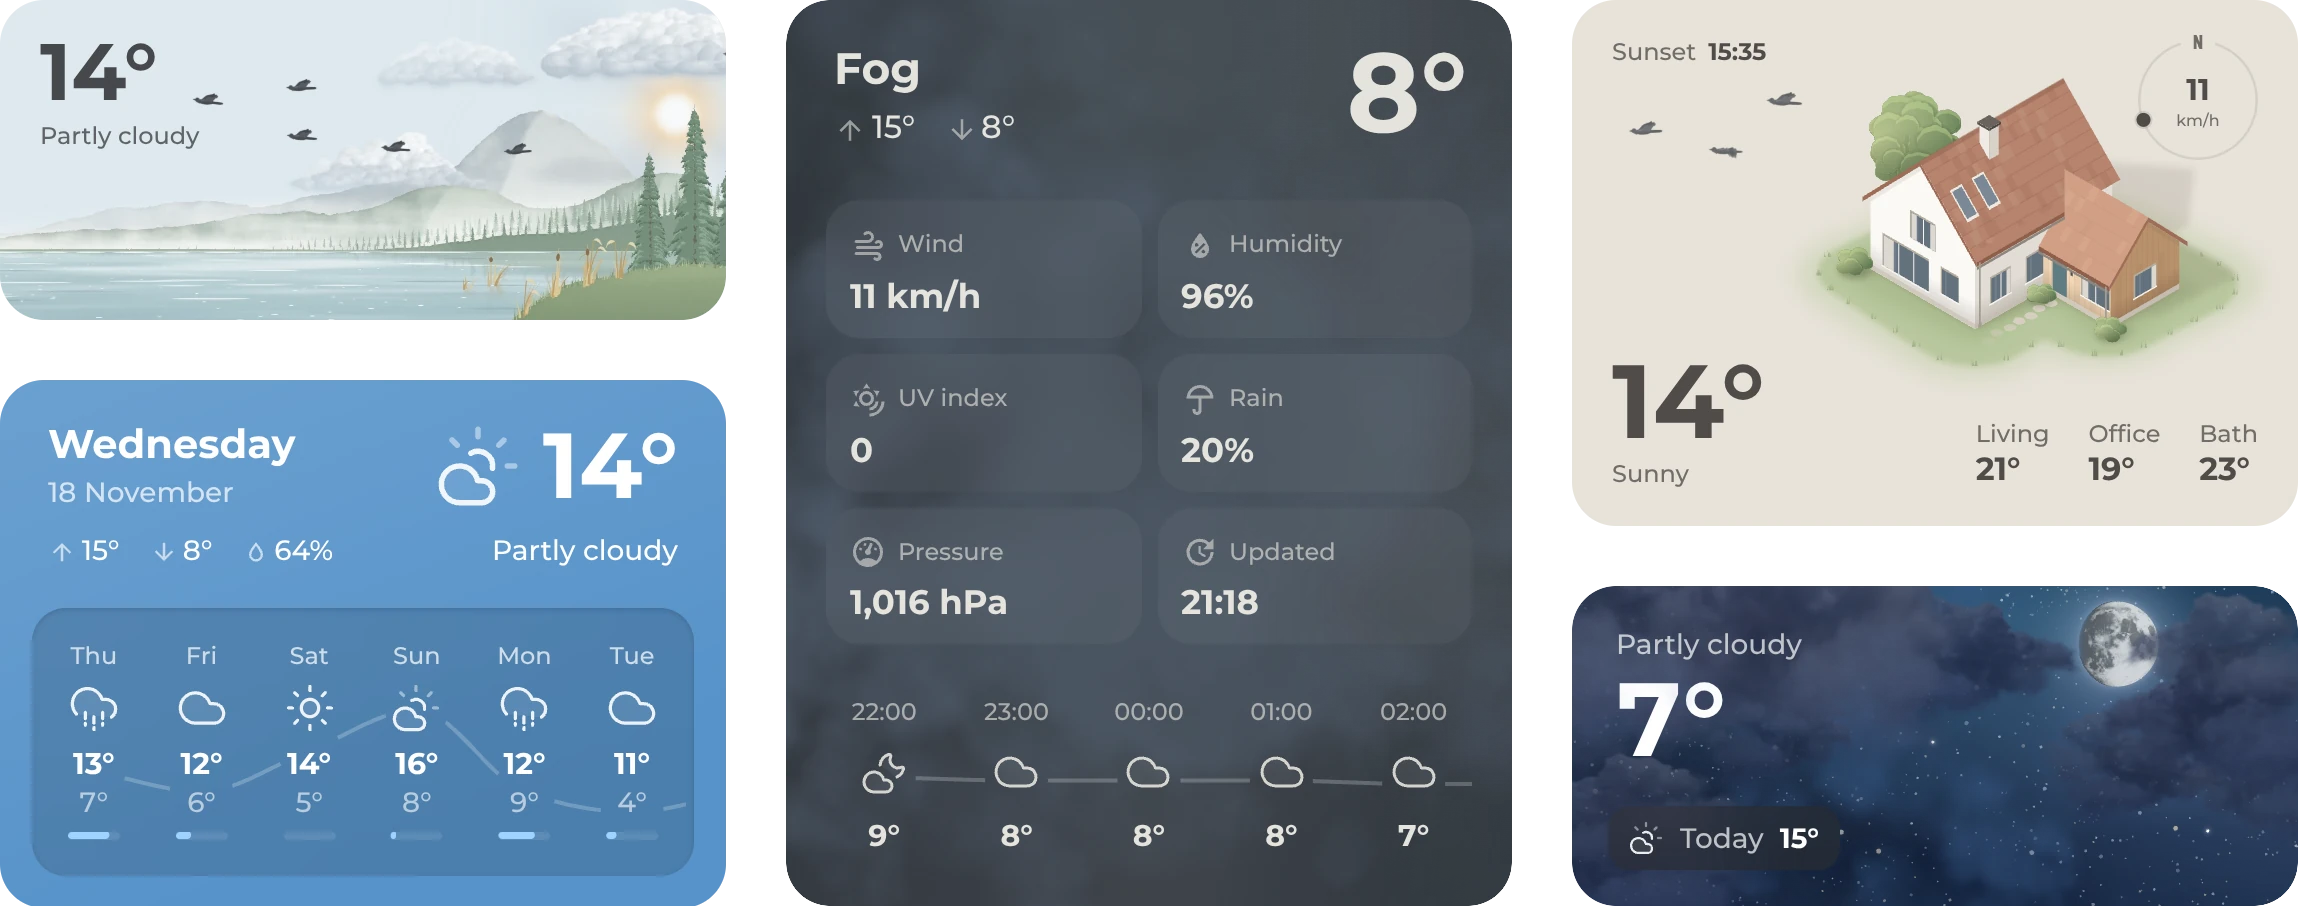
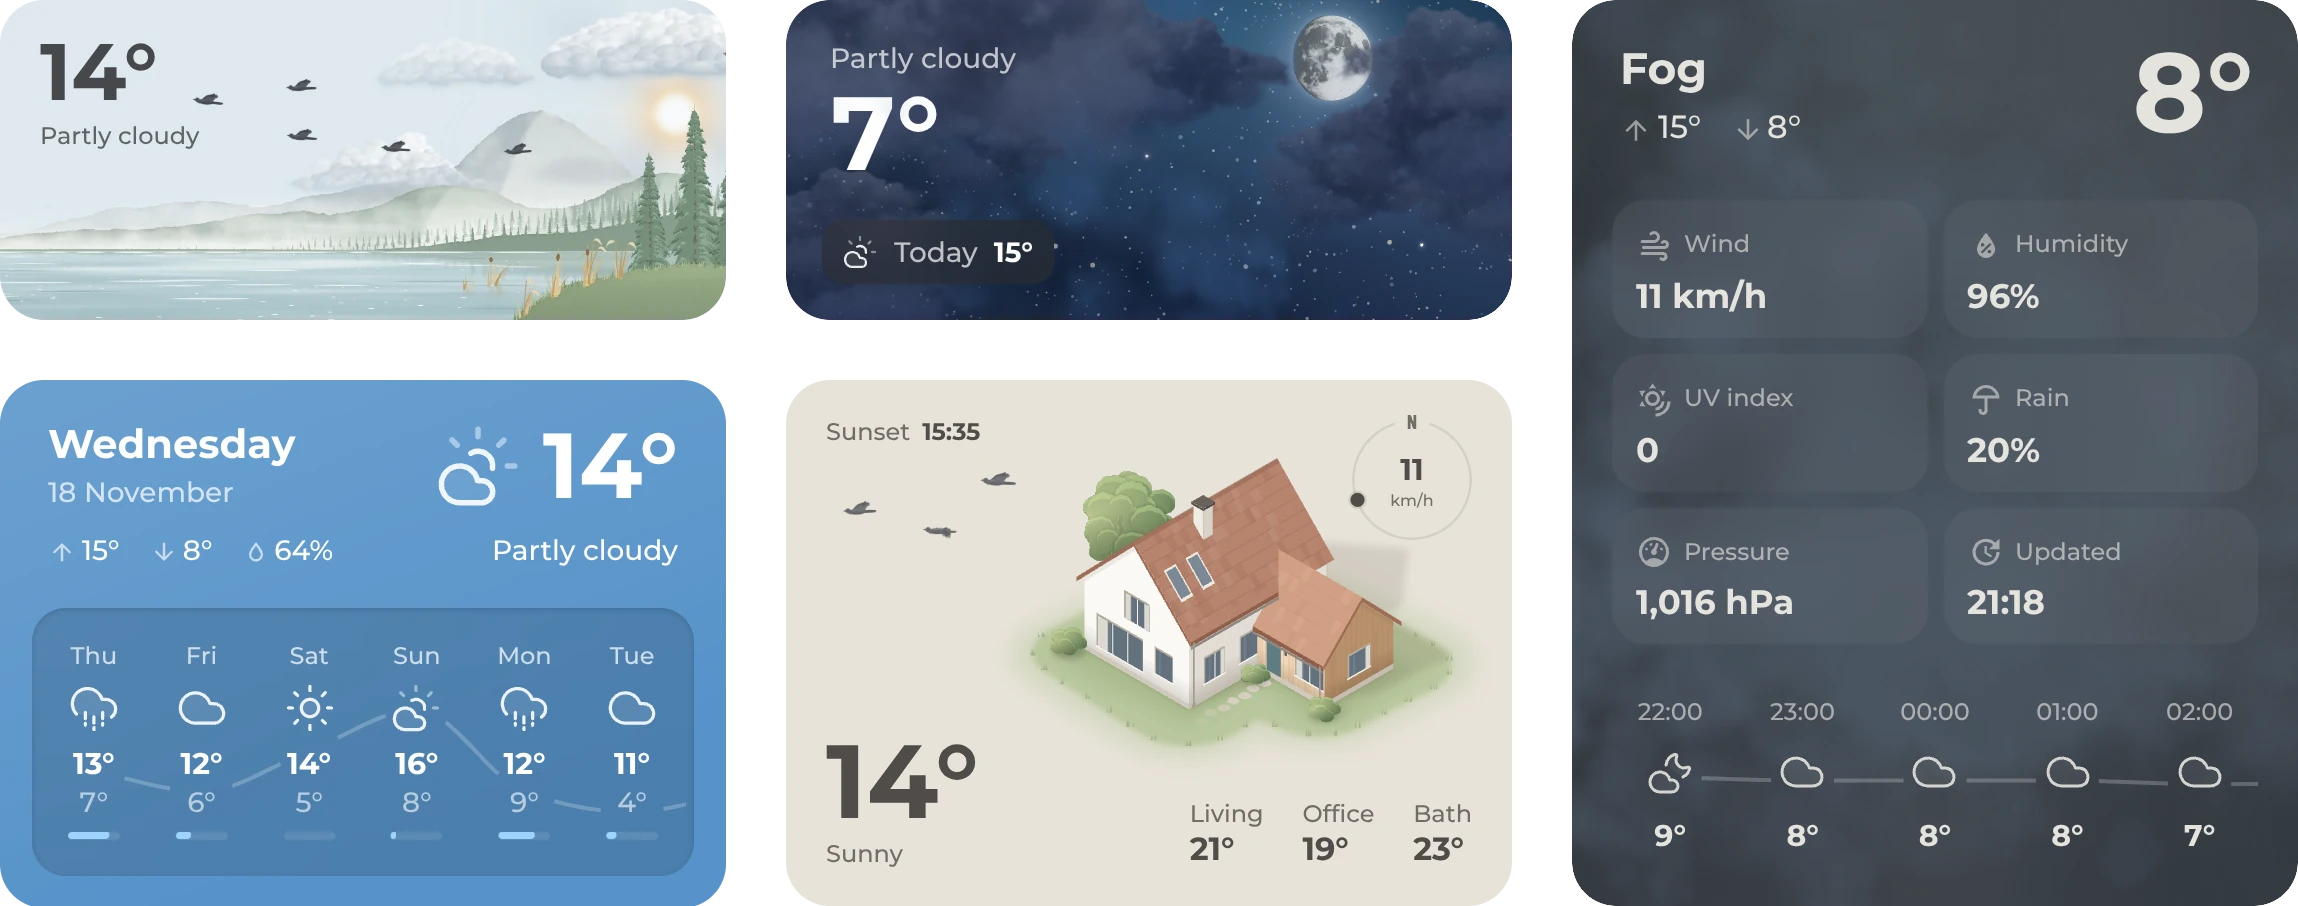
Panel on the right in the hero picture (#16)
Diorama and Sky in the top row, Classic and Home below, and the Panel on the right.

diff --git a/README.md b/README.md
@@ -8,7 +8,7 @@
 
 <br>
 
-<img alt="Five Origami Weather cards: a paper landscape, a classic forecast, a detailed panel in fog, a house in the sun and a night sky with the moon" src="https://raw.githubusercontent.com/hazymorning/origami_weather/main/images/hero.webp">
+<img alt="Five Origami Weather cards: a paper landscape, a night sky with the moon, a classic forecast, a house in the sun and a detailed panel in fog" src="https://raw.githubusercontent.com/hazymorning/origami_weather/main/images/hero.webp">
 
 Origami Weather is a weather card for Home Assistant with a builder approach. It can be a visual, animated weather card, a classic info-rich one, or something completely different. It comes with several ready-made layouts, but every part can be changed or mixed and matched freely.
 
